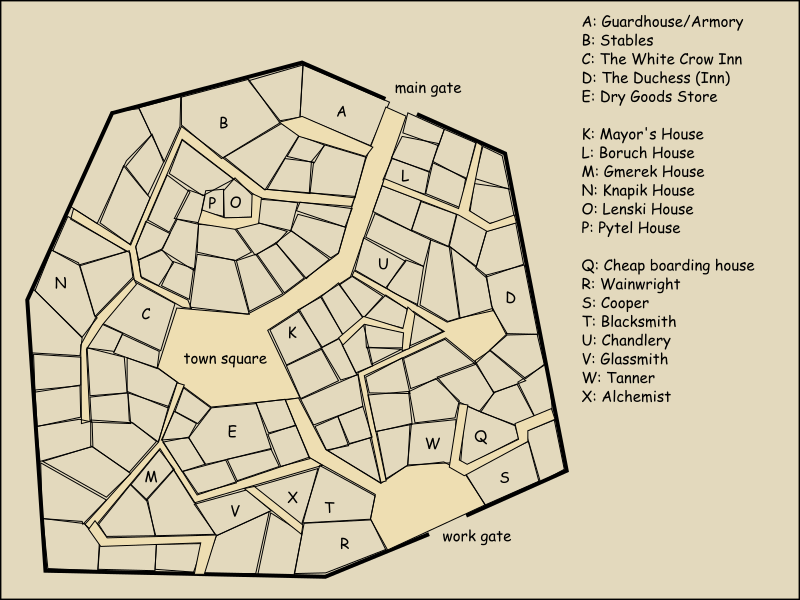
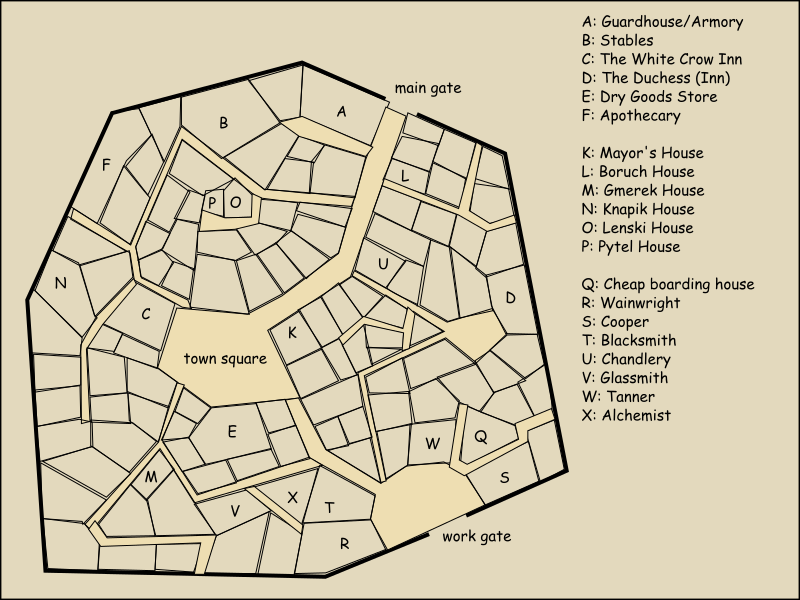
more on Tunly

Changed region(s): [[0.7188, 0.18, 0.9375, 0.72], [0.25, 0.36, 0.2812, 0.39]]

diff --git a/Locations/Town_Tunly.md b/Locations/Town_Tunly.md
@@ -25,16 +25,31 @@ The road outside town leads east to the Mallow River ford, which is easily cross
 
 ## Locations
 
-### The White Crow Inn
+### Apothecary Shop
 
-Respectable inn for adventurers and traders.
+Run by [Mistress Gurta](/Characters/Family_Aldag.md#Gurta)
+
+### Blacksmith
+
+Run by [Reinhardt Gmerek](/Characters/Family_Gmerek.md#Reinhardt)
+
+### Dry Goods Store
+
+Run by [Waldo Boruch](/Characters/Family_Boruch.md#Waldo)
 
 ### The Duchess (Inn)
 
 Disreputable inn.
 
+### The White Crow Inn
+
+Respectable inn for adventurers and traders.
+
+Barmaid [Beata Knapik](/Characters/Family_Knapik.md#Beata)  
+
 ## Characters
 
+[Aldag Family](/Characters/Family_Aldag.md)  
 [Boruch Family](/Characters/Family_Boruch.md)  
 [Dembek Family](/Characters/Family_Dembek.md)  
 [Gmerek Family](/Characters/Family_Gmerek.md)  

diff --git a/Characters/Family_Aldag.md b/Characters/Family_Aldag.md
@@ -1,0 +1,15 @@
+# Aldag Family
+
+## Esmerella
+
+Works at Gurta's shop.
+
+Half elf/human > girl > 13 years old > a granddaughter of Gurta
+
+## Gurta
+
+Owns and runs the apothecary shop in [Tunly](/Locations/Town_Tunly.md).
+
+Human > woman > 68 years old
+
+Feisty, has a sharp tongue, an expert in her field.

diff --git a/Characters/Family_Lenski.md b/Characters/Family_Lenski.md
@@ -1,9 +1,15 @@
 # Family Lenski
 
+## Bolko
+
+Nightsoil man in [Tunly](/Locations/Town_Tunly.md).
+
+Human > man > 32 years old
+
 ## Yegor
 
 Growing up in [Tunly](/Locations/Town_Tunly.md).
 
-Human > Boy > 11 years old
+Human > Boy > 11 years old > son of Bolko
 
 Believes stories, enjoying life
